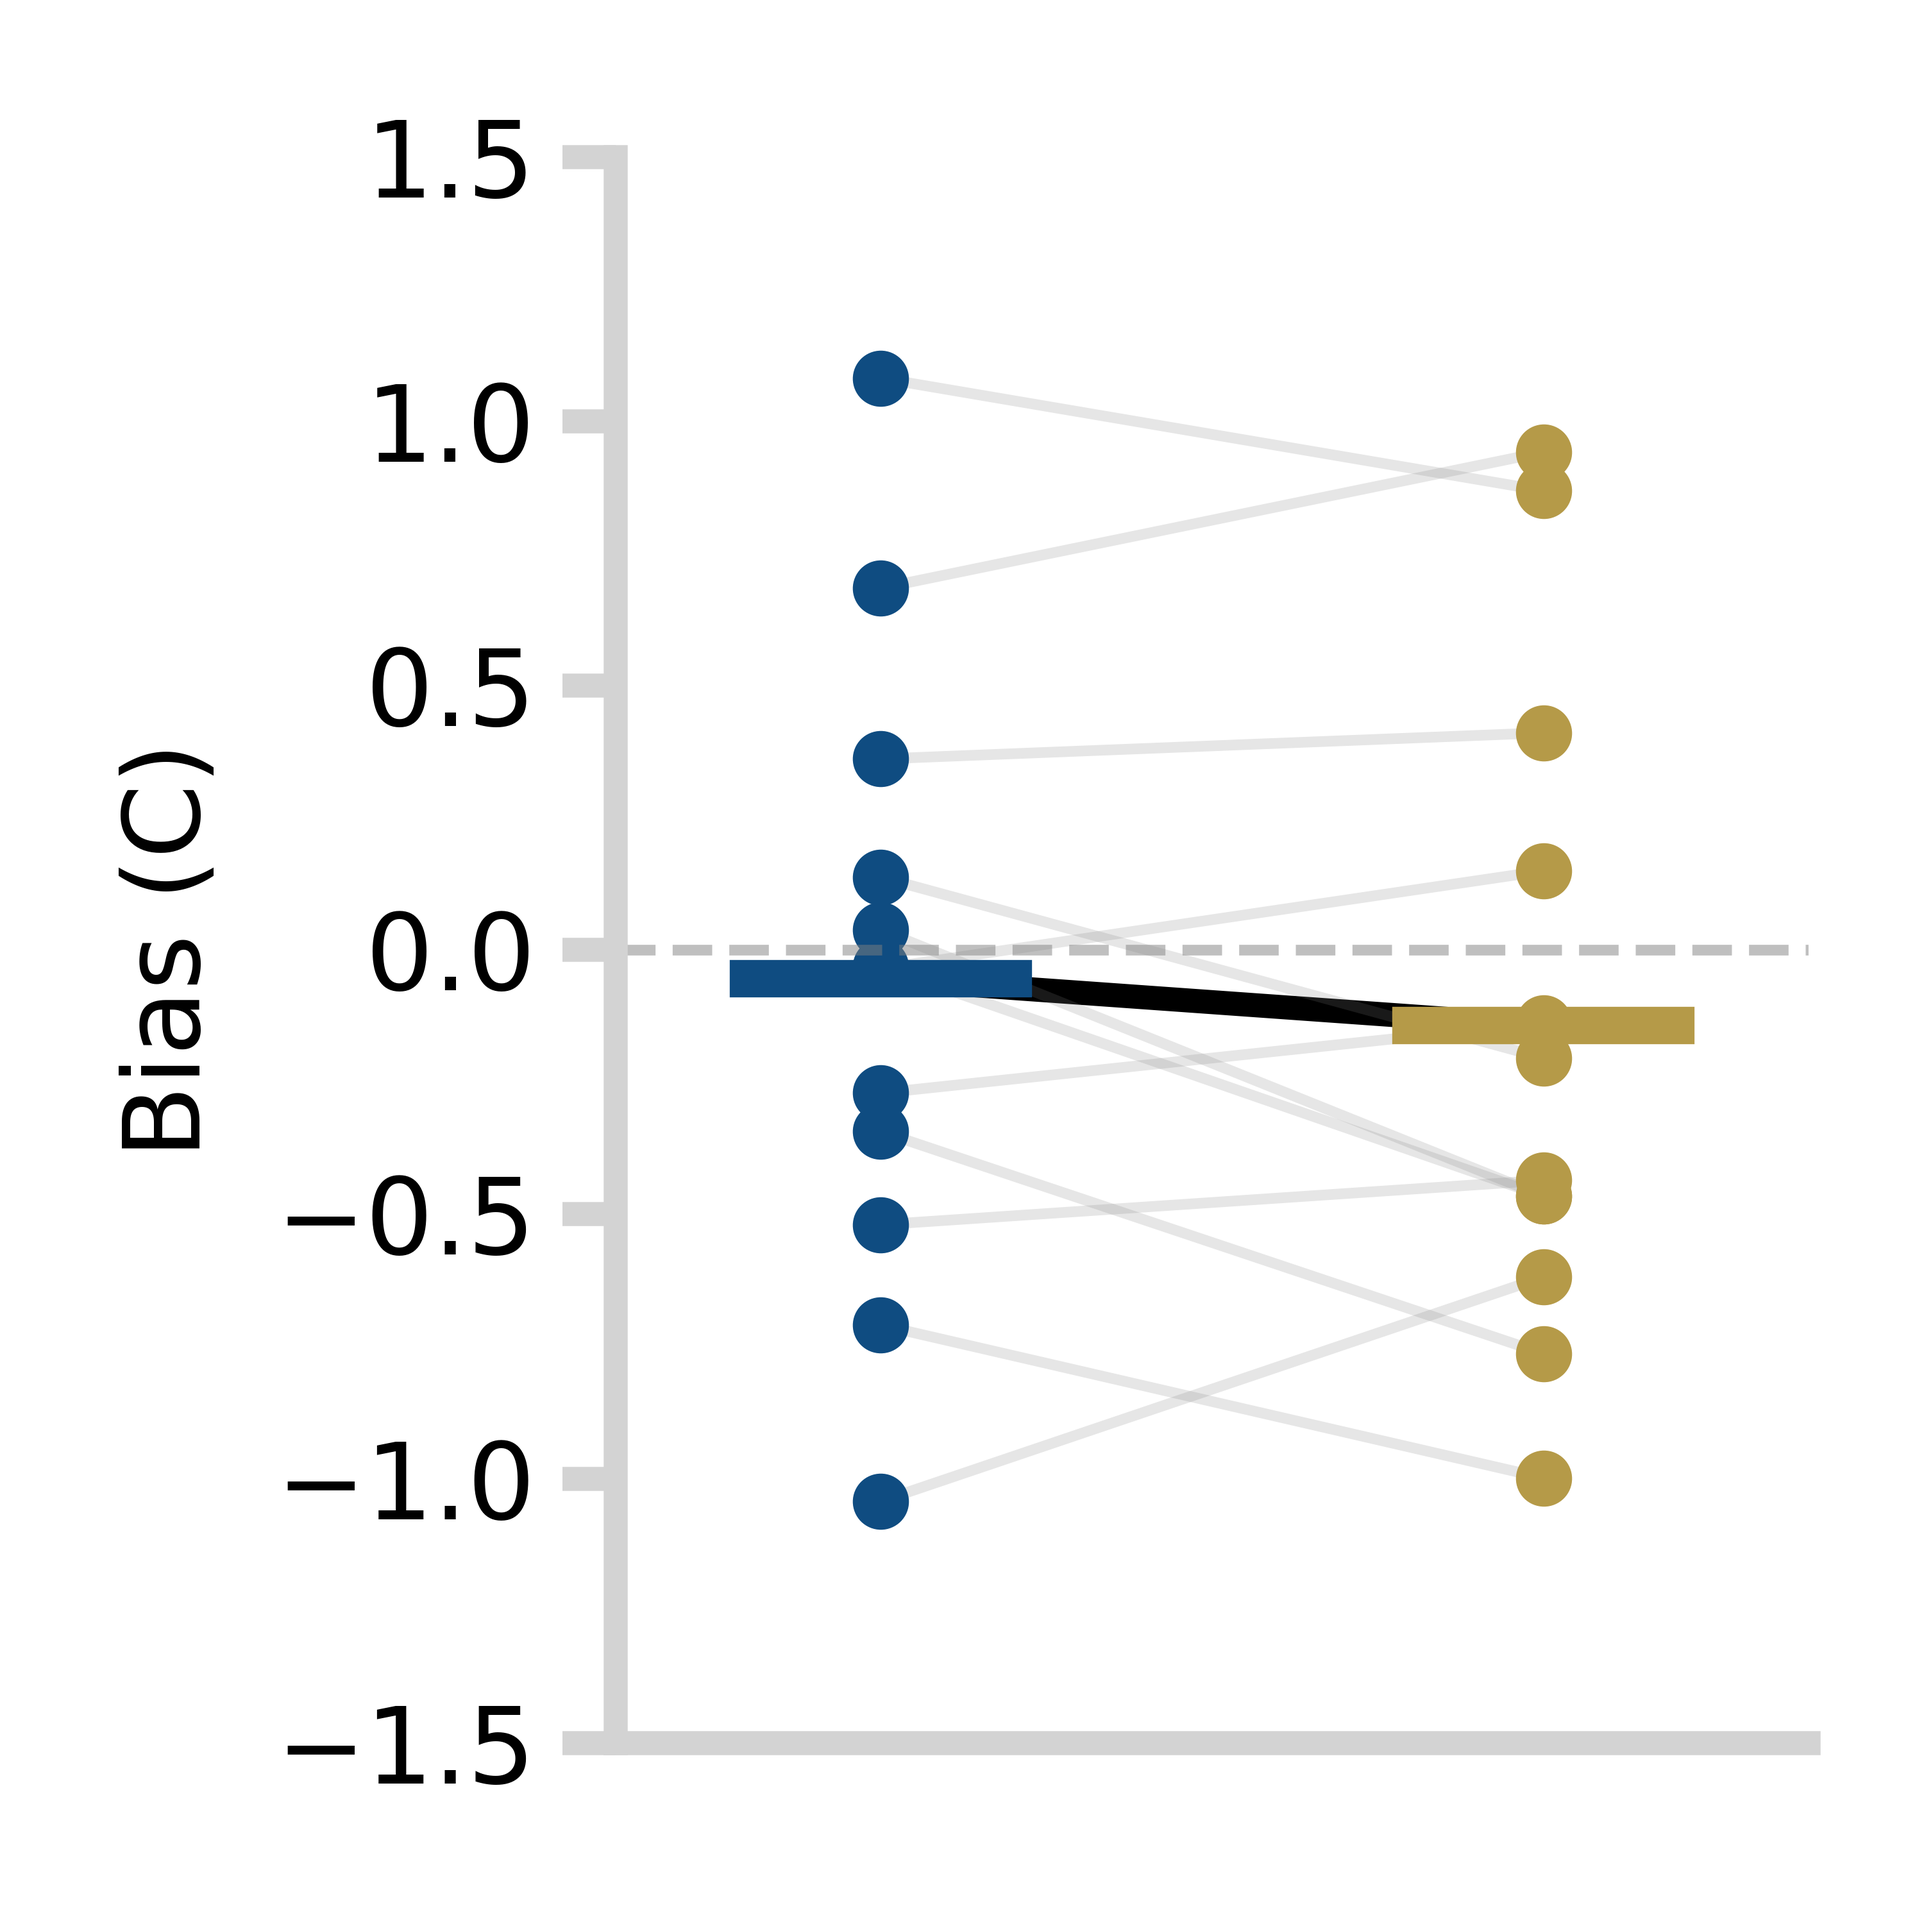
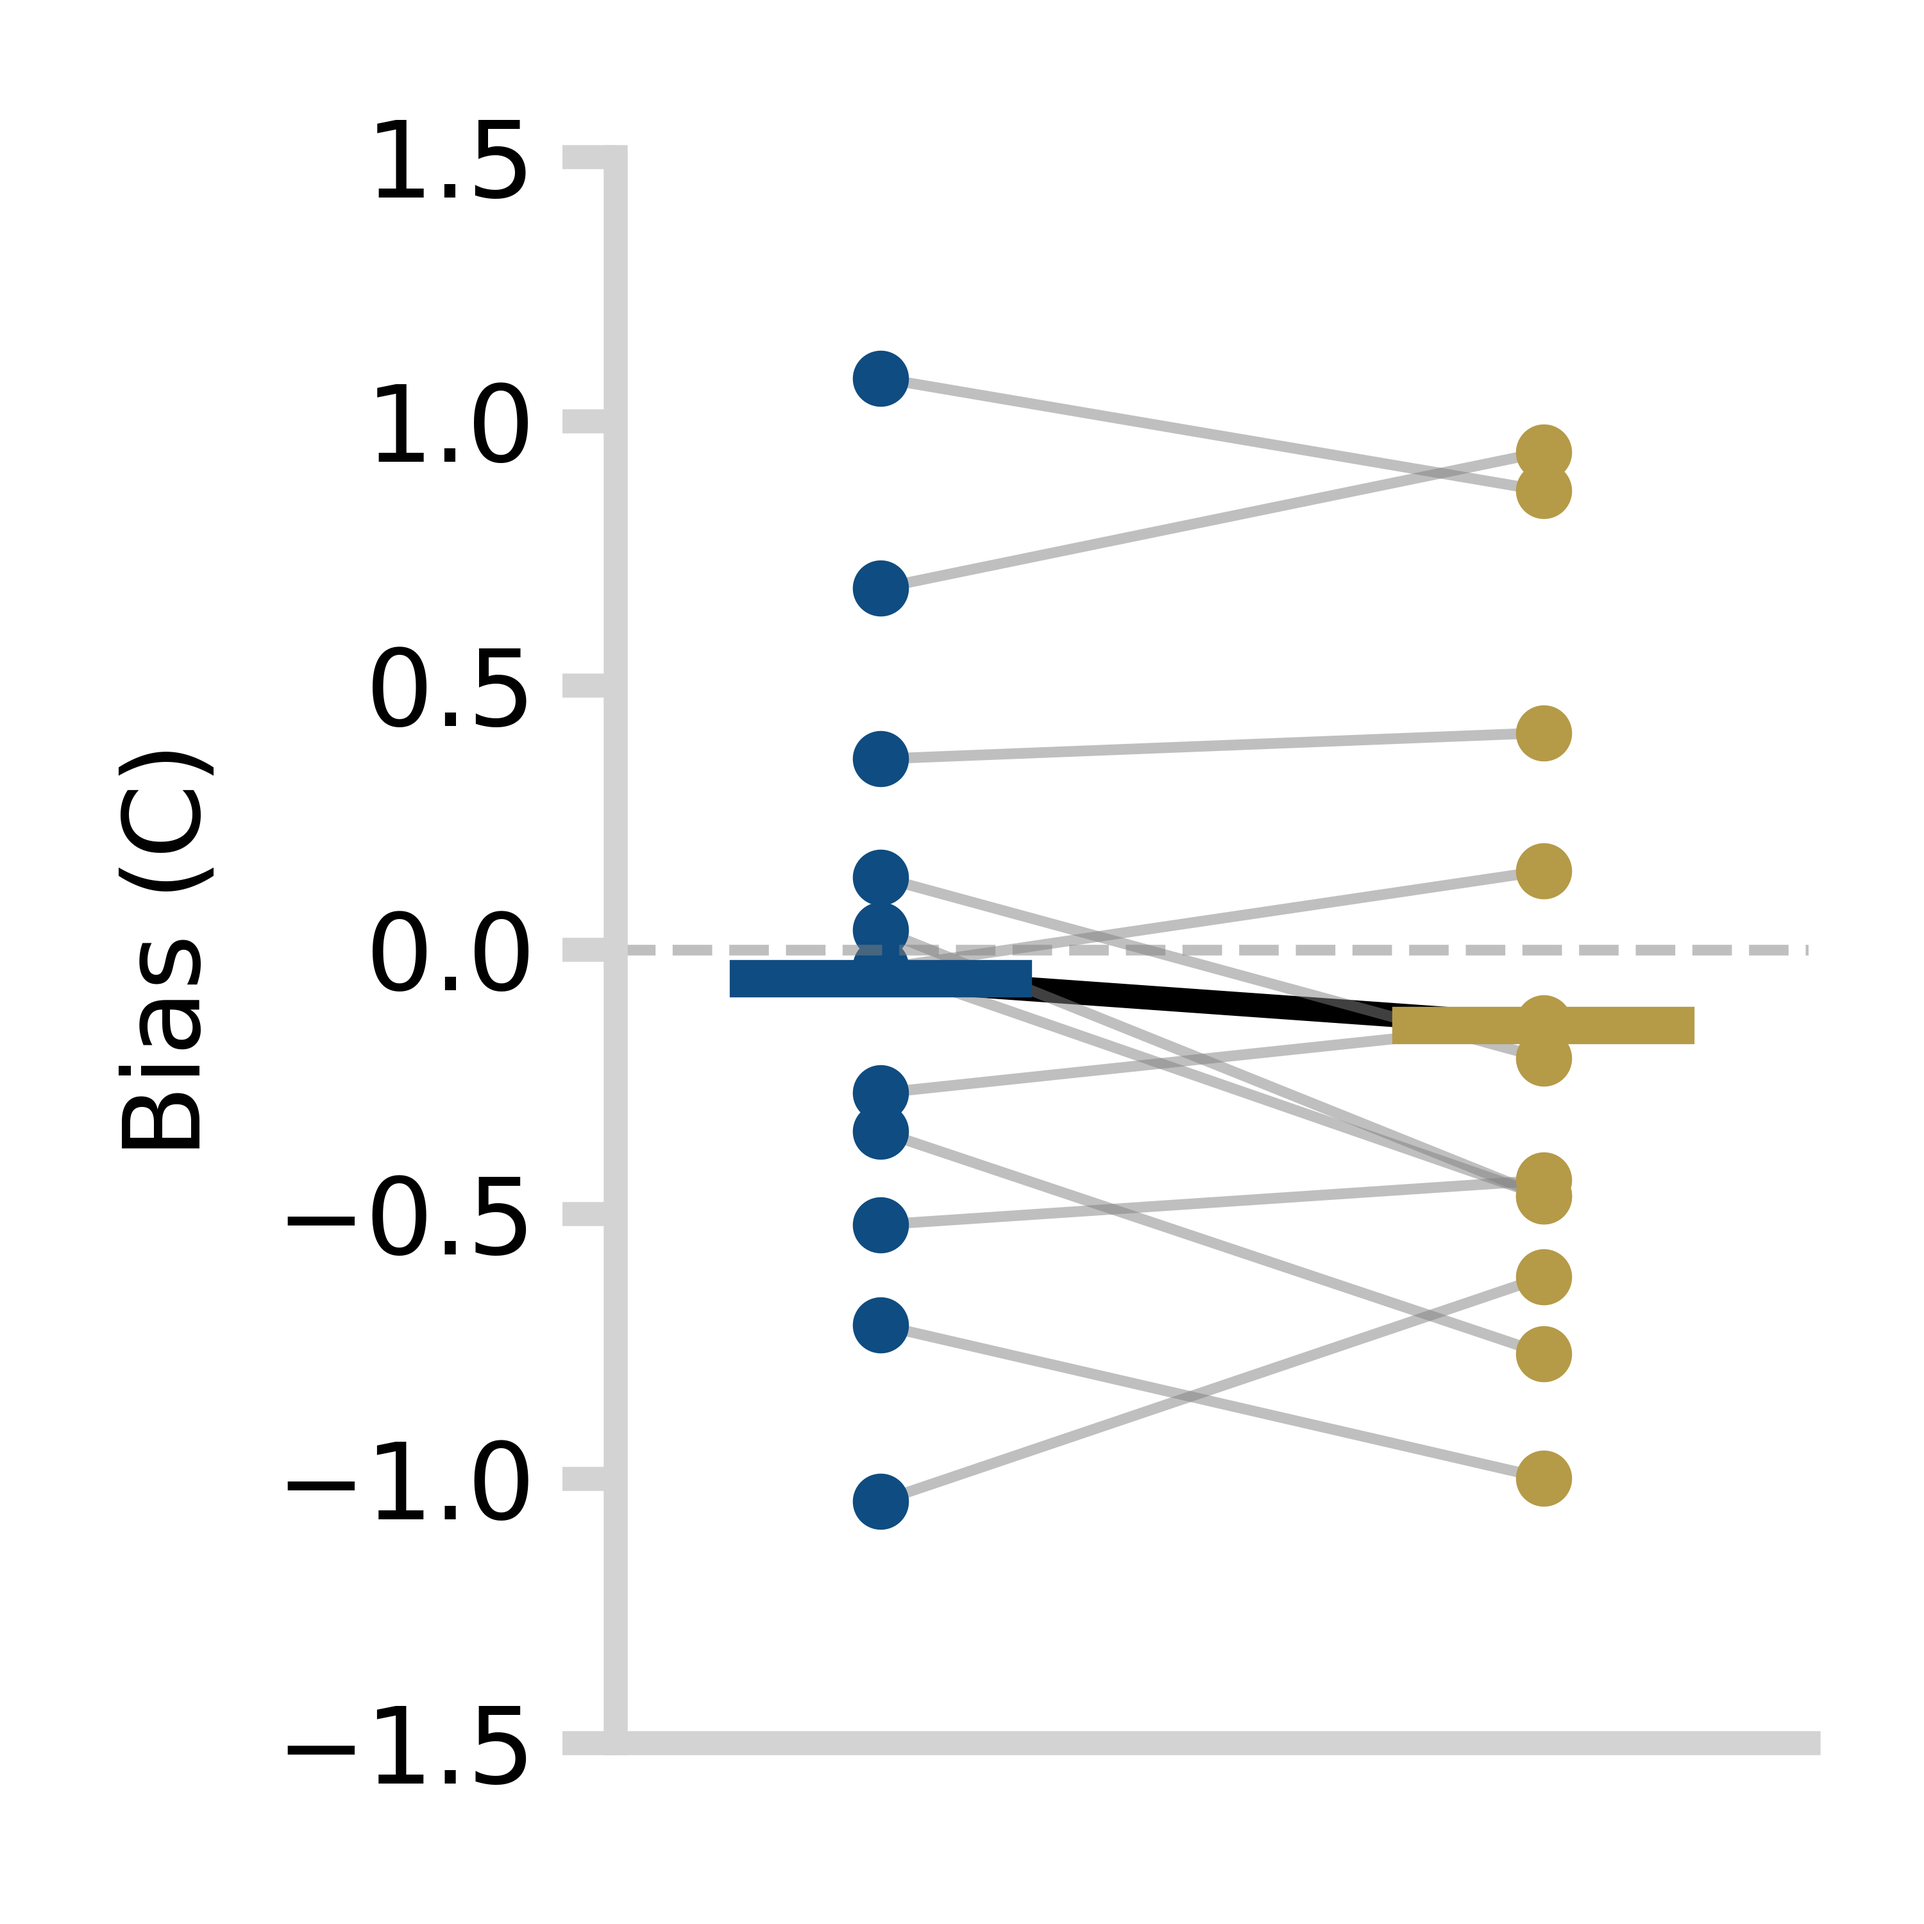
merging

diff --git a/code/analysis-plotting/pooling_across_experiments.py b/code/analysis-plotting/pooling_across_experiments.py
@@ -1,0 +1,79 @@
+# %%
+import sys 
+sys.path.append("../../")
+
+import numpy as np
+import pandas as pd
+import matplotlib.pyplot as plt
+from scipy import stats
+from plotting import (
+    plotParams,
+    removeSpines,
+    prettifySpinesTicks,
+    params_figure,
+    colours,
+    cohenD,
+)
+import os
+
+from globals import data_path, figures_path
+import json
+
+# %%
+sdt_results_folder = '/sdt_summaries/'
+sdt_results_path = data_path + sdt_results_folder
+
+# get all files in the sdt_results folder
+sdt_results_files = os.listdir(sdt_results_path)
+
+# %%
+# iterate through all files and extract the data
+data = {}
+for file in sdt_results_files:
+    if file.endswith('.csv'):
+        name_key = file.split('.')[0]
+        data[name_key] = pd.read_csv(sdt_results_path + file)
+
+all_d_primes = {'cold_touch': [], 'cold_notouch': []}
+all_response_biases = {'cold_touch': [], 'cold_notouch': []}
+
+for key in data:
+    cold_and_no_touch = data[key]['dprime'][data[key]['touch'] == 0]
+    cold_and_touch = data[key]['dprime'][data[key]['touch'] == 1]
+    all_d_primes['cold_notouch'].extend(cold_and_no_touch)
+    all_d_primes['cold_touch'].extend(cold_and_touch)
+
+    cold_and_no_touch = data[key]['cresponse'][data[key]['touch'] == 0]
+    cold_and_touch = data[key]['cresponse'][data[key]['touch'] == 1]
+    all_response_biases['cold_notouch'].extend(cold_and_no_touch)
+    all_response_biases['cold_touch'].extend(cold_and_touch)
+
+# %% DELTAS
+cold_notouch = all_d_primes['cold_notouch']
+cold_touch = all_d_primes['cold_touch']
+diff_deltas = np.array(cold_notouch) - np.array(cold_touch)
+
+print('d-prime mean std sem cold', np.mean(cold_notouch), np.std(cold_notouch), stats.sem(cold_notouch))
+print('d-prime mean std sem cold & touch', np.mean(cold_touch), np.std(cold_touch), stats.sem(cold_touch))
+print('d-prime mean std sem diff', np.mean(diff_deltas), np.std(diff_deltas), stats.sem(diff_deltas))
+
+# t-test and cohen's d
+t_stat, p_val = stats.ttest_rel(cold_notouch, cold_touch, alternative='greater')
+print('t stat p-value', t_stat, p_val)
+print('cohen D', cohenD(cold_notouch, cold_touch))
+
+# %% resopnse bias
+response_bias_notouch = all_response_biases['cold_notouch']
+response_bias_touch = all_response_biases['cold_touch']
+diff_response_bias =  np.array(response_bias_notouch) - np.array(response_bias_touch)
+
+print('response bias mean std sem cold', np.mean(response_bias_notouch), np.std(response_bias_notouch), stats.sem(response_bias_notouch))
+print('response bias mean std sem cold & touch', np.mean(response_bias_touch), np.std(response_bias_touch), stats.sem(response_bias_touch))
+print('response bias mean std sem diff', np.mean(diff_response_bias), np.std(diff_response_bias), stats.sem(diff_response_bias))
+
+# t-test and cohen's d
+t_stat, p_val = stats.ttest_rel(response_bias_notouch, response_bias_touch, alternative='greater')
+print('t stat p-value', t_stat, p_val)
+print('cohen D', cohenD(response_bias_notouch, response_bias_touch))
+
+# %%

diff --git a/code/analysis-plotting/figures/figure_all_deltas.py b/code/analysis-plotting/figures/figure_all_deltas.py
@@ -41,6 +41,7 @@ fig, ax = plt.subplots(1, 1, figsize=(8, 15))
 
 half_width_mean = 0.1
 all_values = {'cold_touch': [], 'cold_notouch': []}
+all_response_biases = {'cold_touch': [], 'cold_notouch': []}
 
 for key in data:
     # key= 'df_control'
@@ -55,6 +56,8 @@ for key in data:
 
     all_values['cold_notouch'].extend(cold_and_no_touch)
     all_values['cold_touch'].extend(cold_and_touch)
+    all_response_biases['cold_notouch'].extend(data[key]['cresponse'][data[key]['touch'] == 0])
+    all_response_biases['cold_touch'].extend(data[key]['cresponse'][data[key]['touch'] == 1])
 
 ax.plot([1 - half_width_mean, 1 + half_width_mean], [np.mean(all_values['cold_notouch']), np.mean(all_values['cold_notouch'])], color=colours['cold'], lw=params_figure["width_lines"] + 5)
 ax.plot([2 - half_width_mean, 2 + half_width_mean], [np.mean(all_values['cold_touch']), np.mean(all_values['cold_touch'])], color=colours['cold_touch'], lw=params_figure["width_lines"] + 5)
@@ -83,17 +86,34 @@ prettifySpinesTicks(ax)
 folder_path = figures_path + '/figure_all_deltas/'
 plt.savefig(folder_path + 'all_dprimes_in_sem.png', bbox_inches='tight', dpi=300, transparent=True)
 
-# %%
+# %% DELTAS
 cold_notouch = all_values['cold_notouch']
 cold_touch = all_values['cold_touch']
+diff_deltas = np.array(cold_notouch) - np.array(cold_touch)
 
-print('mean std sem', np.mean(cold_notouch), np.std(cold_notouch), stats.sem(cold_notouch))
-print('mean std sem', np.mean(cold_touch), np.std(cold_touch), stats.sem(cold_touch))
+print('d-prime mean std sem cold', np.mean(cold_notouch), np.std(cold_notouch), stats.sem(cold_notouch))
+print('d-prime mean std sem cold & touch', np.mean(cold_touch), np.std(cold_touch), stats.sem(cold_touch))
+print('d-prime mean std sem diff', np.mean(diff_deltas), np.std(diff_deltas), stats.sem(diff_deltas))
 
 # t-test and cohen's d
 t_stat, p_val = stats.ttest_rel(cold_notouch, cold_touch, alternative='greater')
 print('t stat p-value', t_stat, p_val)
 print('cohen D', cohenD(cold_notouch, cold_touch))
+
+# %% resopnse bias
+response_bias_notouch = all_response_biases['cold_notouch']
+response_bias_touch = all_response_biases['cold_touch']
+diff_response_bias =  np.array(response_bias_notouch) - np.array(response_bias_touch)
+
+print('response bias mean std sem cold', np.mean(response_bias_notouch), np.std(response_bias_notouch), stats.sem(response_bias_notouch))
+print('response bias mean std sem cold & touch', np.mean(response_bias_touch), np.std(response_bias_touch), stats.sem(response_bias_touch))
+print('response bias mean std sem diff', np.mean(diff_response_bias), np.std(diff_response_bias), stats.sem(diff_response_bias))
+
+# t-test and cohen's d
+t_stat, p_val = stats.ttest_rel(response_bias_notouch, response_bias_touch, alternative='greater')
+print('t stat p-value', t_stat, p_val)
+print('cohen D', cohenD(response_bias_notouch, response_bias_touch))
+
 # %%
 data_sdts = {}
 # get files that end with .json

diff --git a/code/analysis-plotting/figures/figure3_sdt.py b/code/analysis-plotting/figures/figure3_sdt.py
@@ -40,7 +40,7 @@ for file in sdt_results_files:
 # %% EXPERIMENT 1
 experiment_name = 'df_experiment'
 data_experiment = data[experiment_name]
-
+params_figure['alpha'] = 0.5
 mean_notouch = data_experiment['dprime'][data_experiment['touch'] == 0].mean()
 mean_touch = data_experiment['dprime'][data_experiment['touch'] == 1].mean()
 
